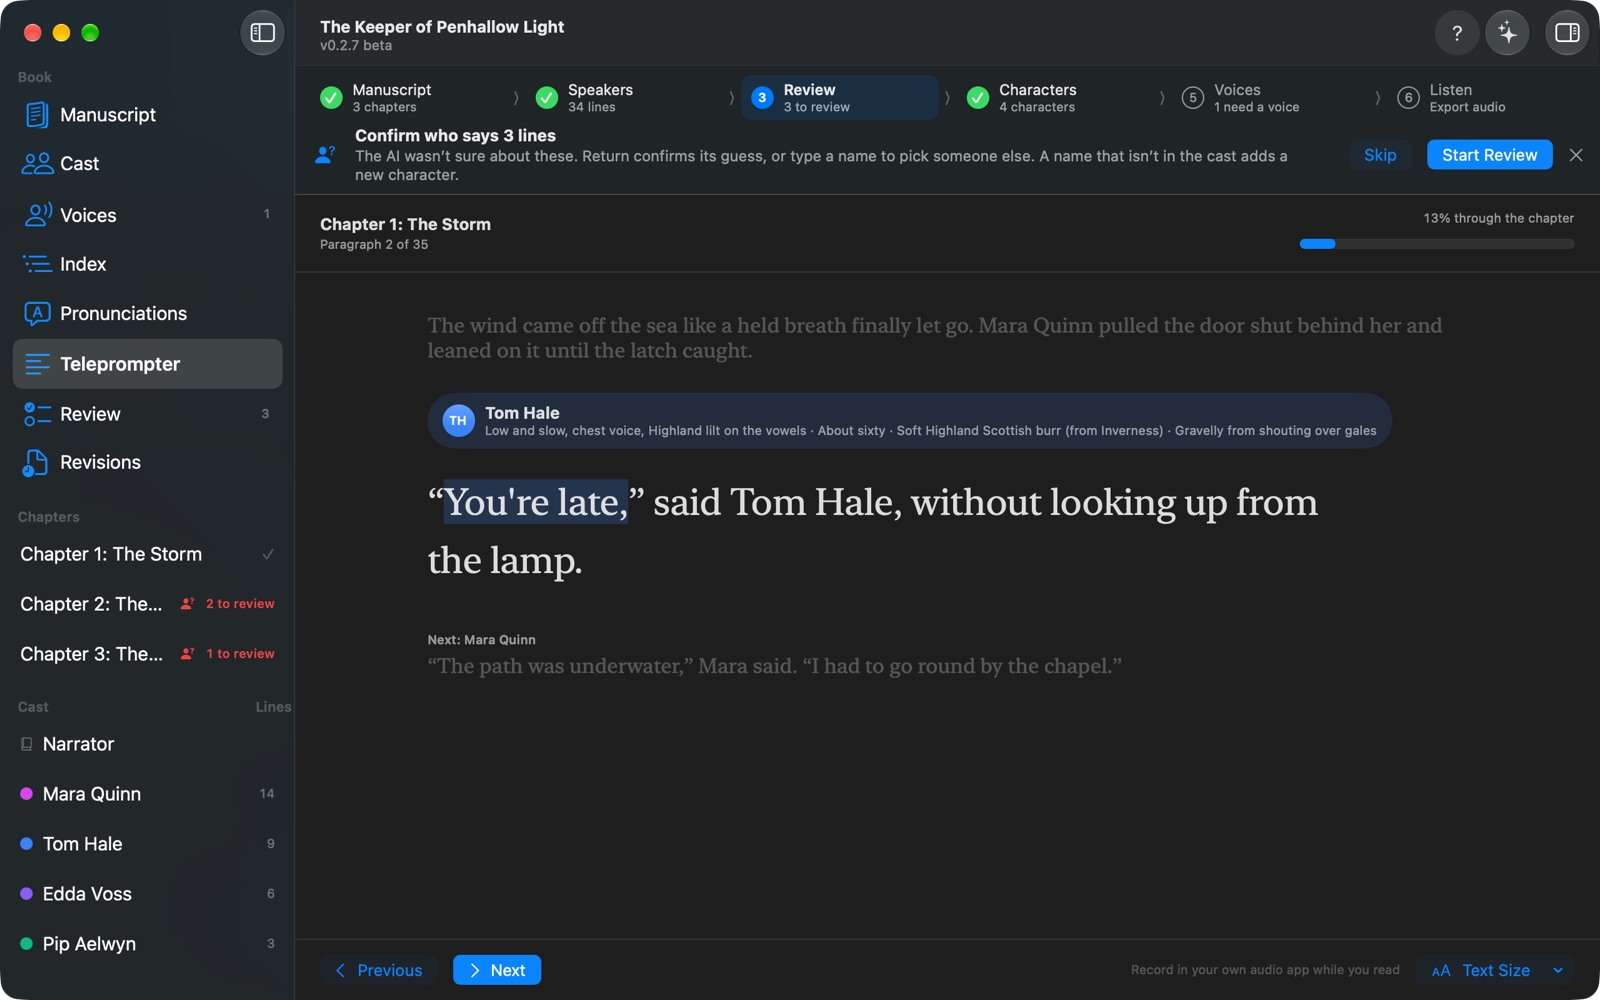
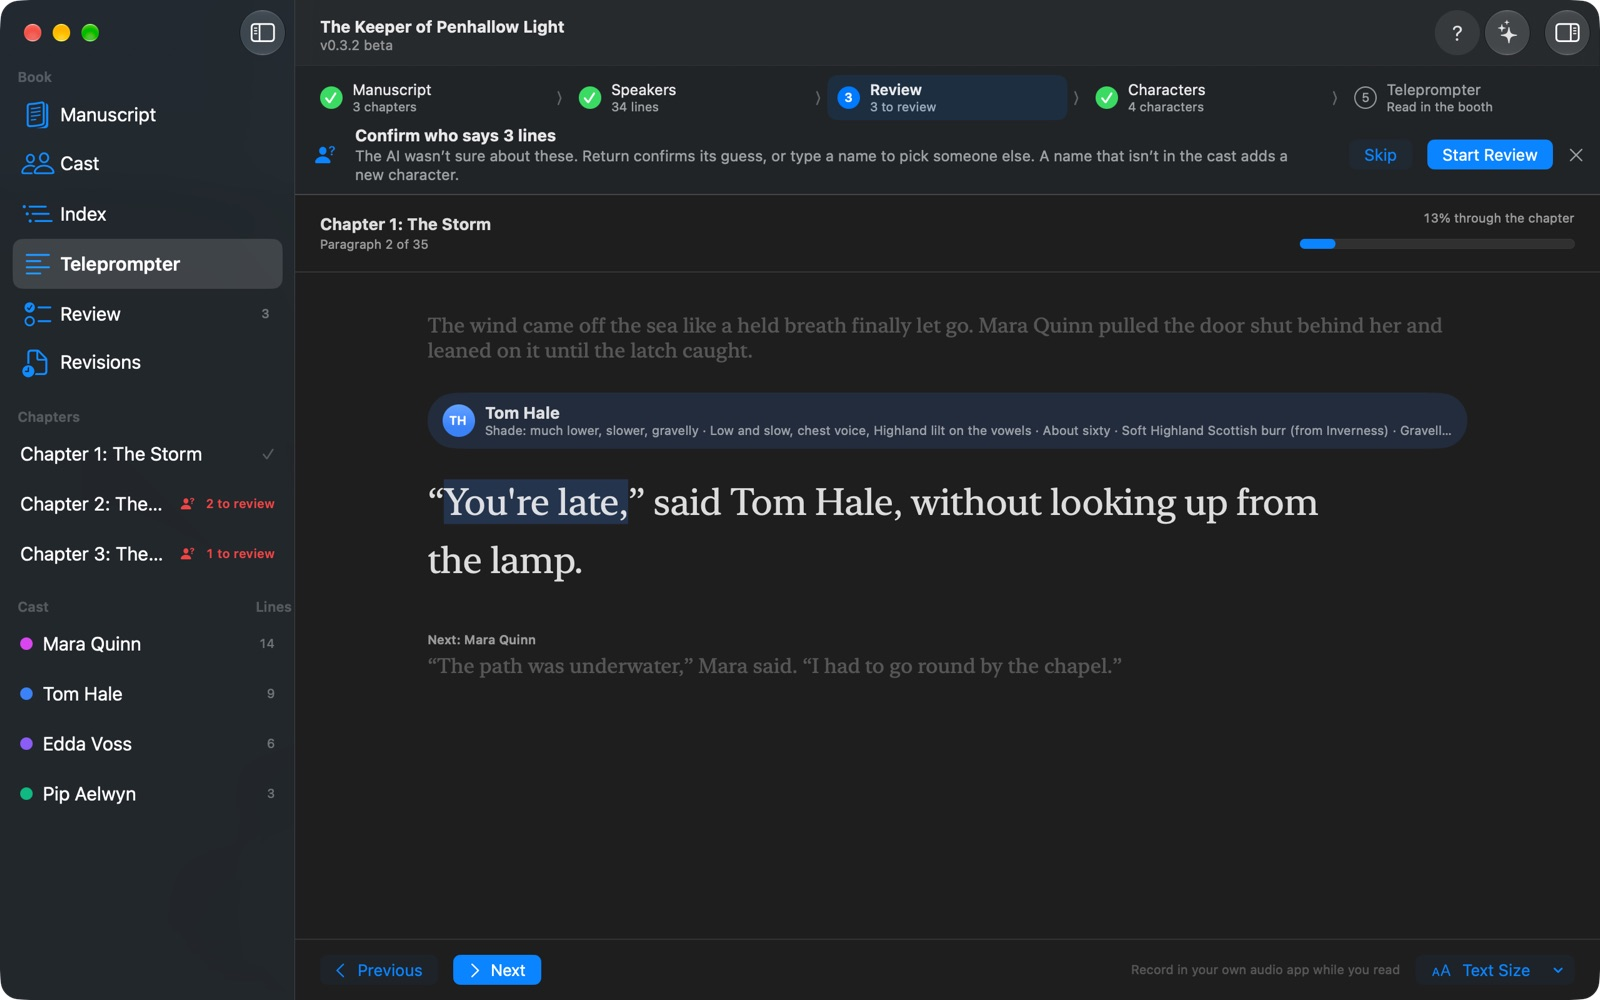
README: current Teleprompter screenshot

diff --git a/README.md b/README.md
@@ -75,7 +75,7 @@ The first time you click Tag Speakers, InnerVoice suggests an AI model for your 
 <td width="50%"><img src="docs/images/stats.jpg" alt="Book Stats: share of lines tagged for you, chapters done, lines that need you, and counts for speakers and narration"><br><sub><b>Book Stats.</b> What's done and what's left.</sub></td>
 </tr>
 <tr>
-<td width="50%"><img src="docs/images/teleprompter.jpg" alt="Teleprompter: the current paragraph in large type with the speaker's name and voice cue"><br><sub><b>Teleprompter.</b> Large type for the booth.</sub></td>
+<td width="50%"><img src="docs/images/teleprompter.jpg" alt="Teleprompter: the current paragraph in large type, the speaker with their shade and voice cues above it, and who speaks next below"><br><sub><b>Teleprompter.</b> Large type, cues and your place, for the booth.</sub></td>
 <td width="50%"><img src="docs/images/models.jpg" alt="Choosing a model: each model with a fit badge and a note about this Mac's memory"><br><sub><b>Models.</b> Recommended for your Mac's memory.</sub></td>
 </tr>
 </table>
